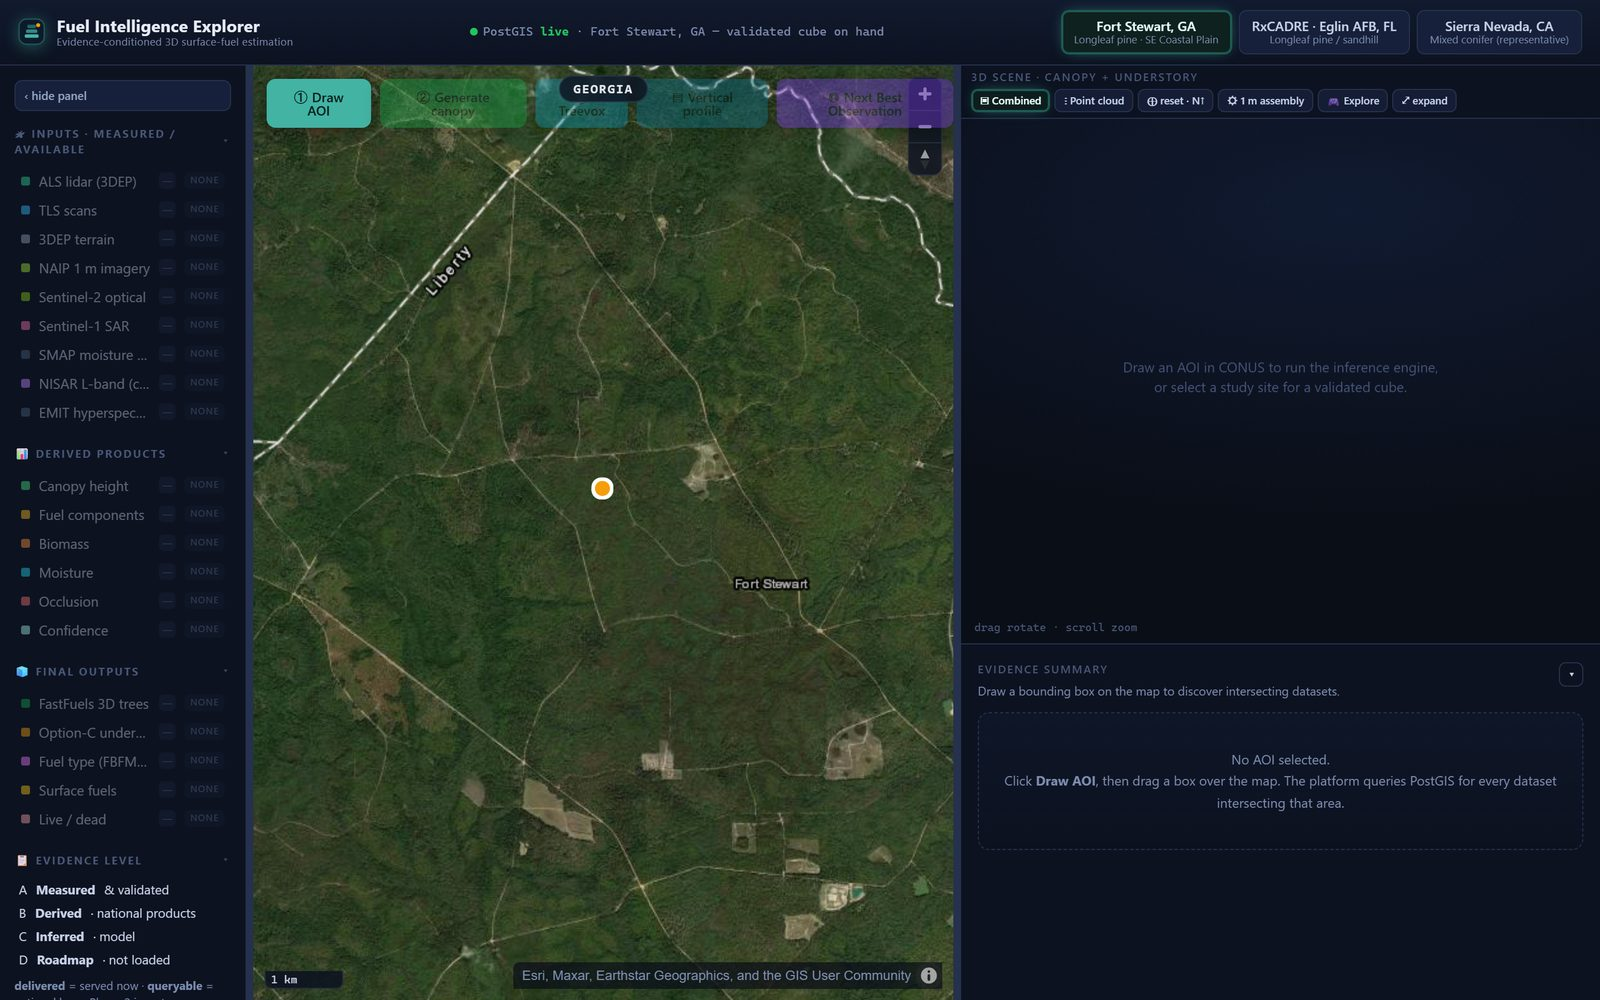
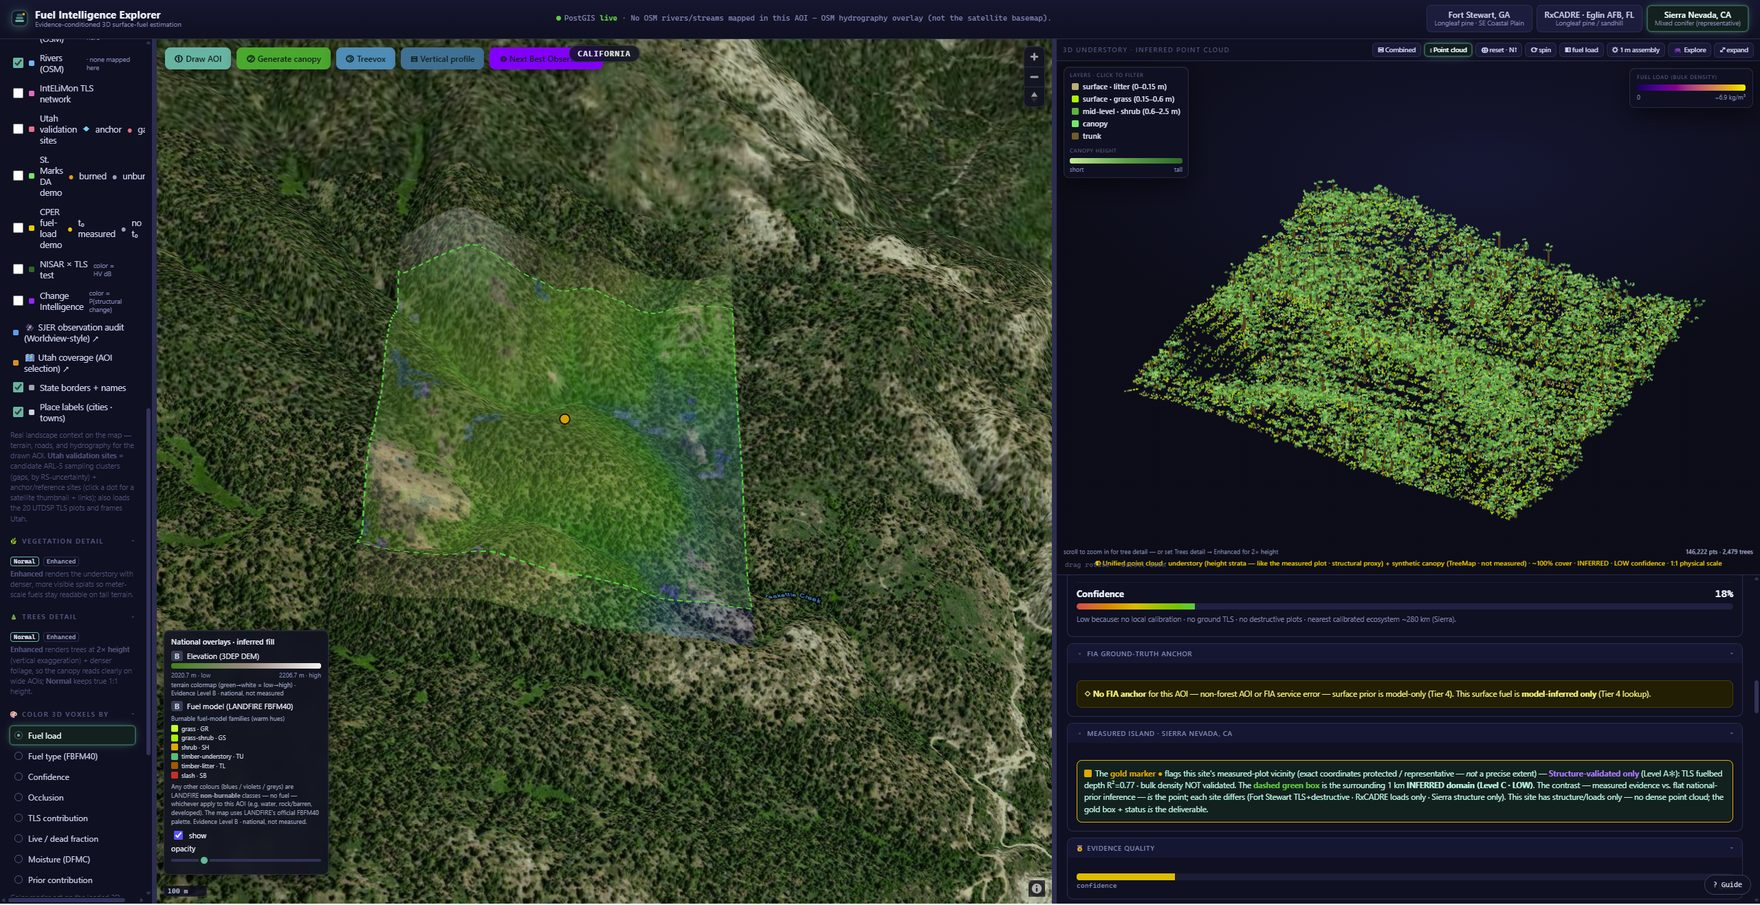
feat(site): swap hero engine screenshot to the Sierra Nevada 3D point-cloud view
Replaces the hero/OG image with the PI-selected Fuel Intelligence Explorer
capture — terrain + drawn AOI beside the 3D understory point cloud and the
measured/inferred evidence panels (Sierra Nevada, CA). 1760x905, progressive
JPEG. Alt text updated to match.

diff --git a/index.html b/index.html
@@ -213,7 +213,7 @@ nav,header,section,footer{position:relative;z-index:2}
       <span class="furl">climaiq.tech/explorer</span>
       <span class="open-hint">open ↗</span>
     </div>
-    <img src="assets/explorer-hero.jpg" alt="The ClimaIQ Fuel Intelligence Explorer showing a 3D surface-fuel reconstruction over Fort Stewart, Georgia, with the measured / derived / inferred evidence ladder.">
+    <img src="assets/explorer-hero.jpg" alt="The ClimaIQ Fuel Intelligence Explorer showing a 3D understory point-cloud reconstruction over Sierra Nevada, California, beside the terrain map with a drawn area of interest and the measured / inferred evidence panels.">
   </a>
 </div></header>
 
